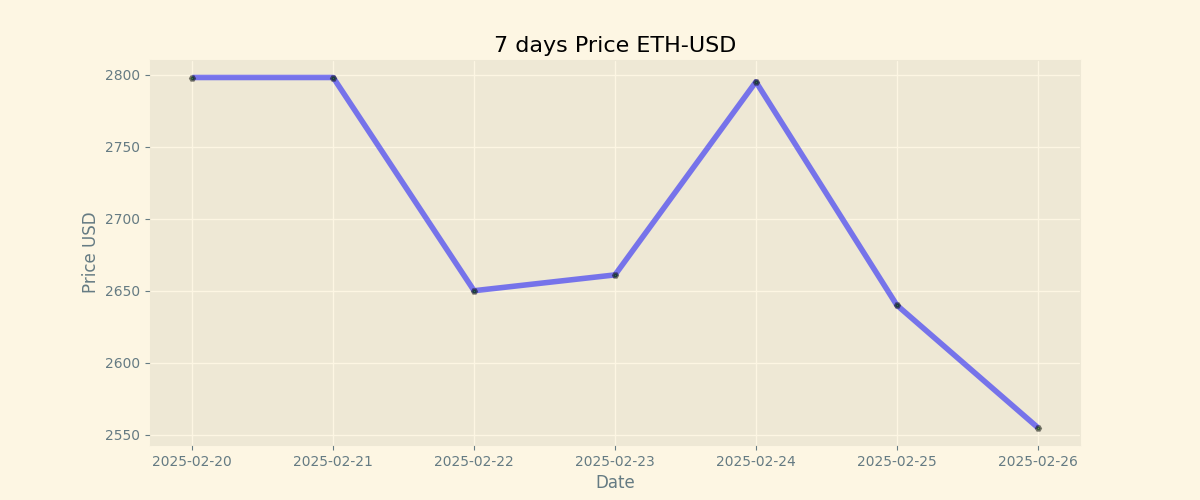
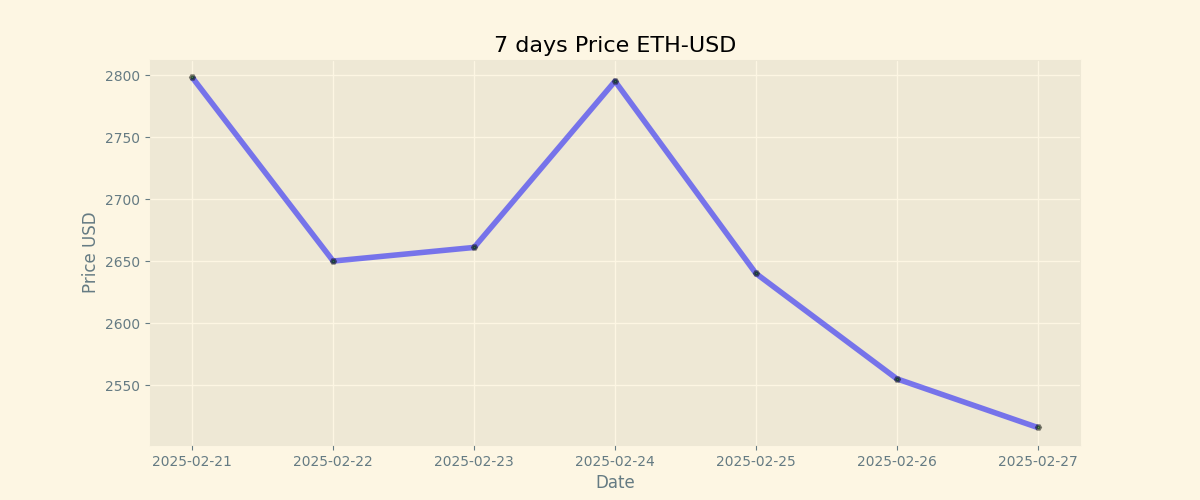
Duty Updates 2025-02-27

diff --git a/README.md b/README.md
@@ -9,8 +9,8 @@
 
 | Currency | Price           |
 | -------- | --------------- |
-| **BTC**  | **$ 91532.75** |
-| **ETH**  | **$ 2555.06** |
+| **BTC**  | **$ 88500.0** |
+| **ETH**  | **$ 2515.8** |
 
 ## BTC chart
 
